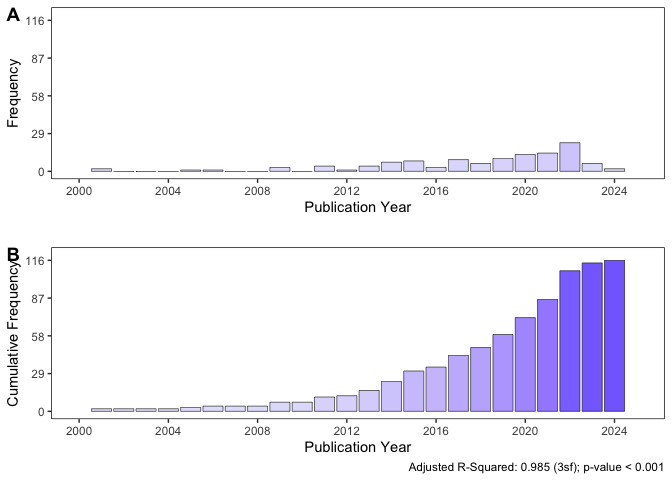
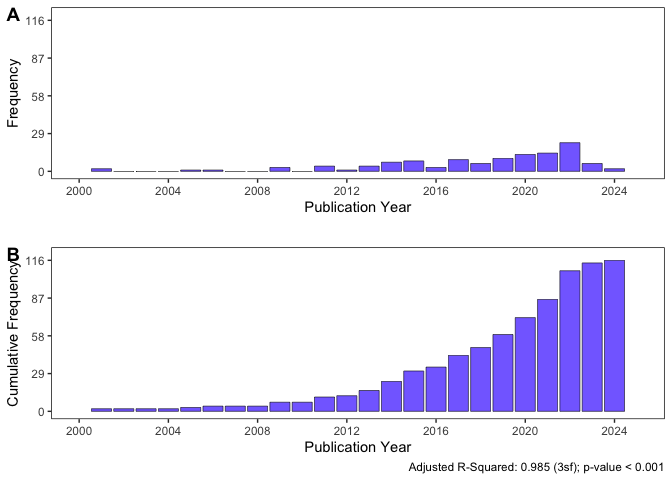
changed color palette in use for frequency and cumulative=frequency bar-plot array

diff --git a/scripts/cleaning-script.md b/scripts/cleaning-script.md
@@ -234,8 +234,8 @@ summary(exponential_model)
 ``` r
 temporal_frequencies_plot <- temporal_frequencies %>%
   ggplot(aes(x=pub_year,y=frequency,fill=frequency)) + 
-  geom_col(color="black",size=0.2) + 
-  scale_fill_gradient(name="Count",low="lavender",high="lightslateblue",limits=c(1,116),na.value="lavender",breaks=c(1,29,58,87,116)) +
+  geom_col(color="black",size=0.2,fill="lightslateblue") + 
+  scale_fill_manual(name="Count",breaks=c(1,29,58,87,116)) +
   xlab("Publication Year") + 
   ylab("Frequency") + 
   scale_y_continuous(limits=c(0,120),breaks=c(0,29,58,87,116)) +
@@ -253,8 +253,8 @@ temporal_frequencies_plot <- temporal_frequencies %>%
 ``` r
 temporal_cumulative_frequencies_plot <- temporal_frequencies %>%
   ggplot(aes(x=pub_year,y=cumulative_frequency,fill=cumulative_frequency)) +
-  scale_fill_gradient(name="Count",low="lavender",high="lightslateblue",limits=c(1,116),na.value="lavender",breaks=c(1,29,58,87,116)) +
-  geom_col(color="black",size=0.2) + 
+  scale_fill_manual(name="Count",breaks=c(1,29,58,87,116)) +
+  geom_col(color="black",size=0.2,fill="lightslateblue") + 
   xlab("Publication Year") + 
   ylab("Cumulative Frequency") + 
   scale_y_continuous(limits=c(0,120),breaks=c(0,29,58,87,116)) +
